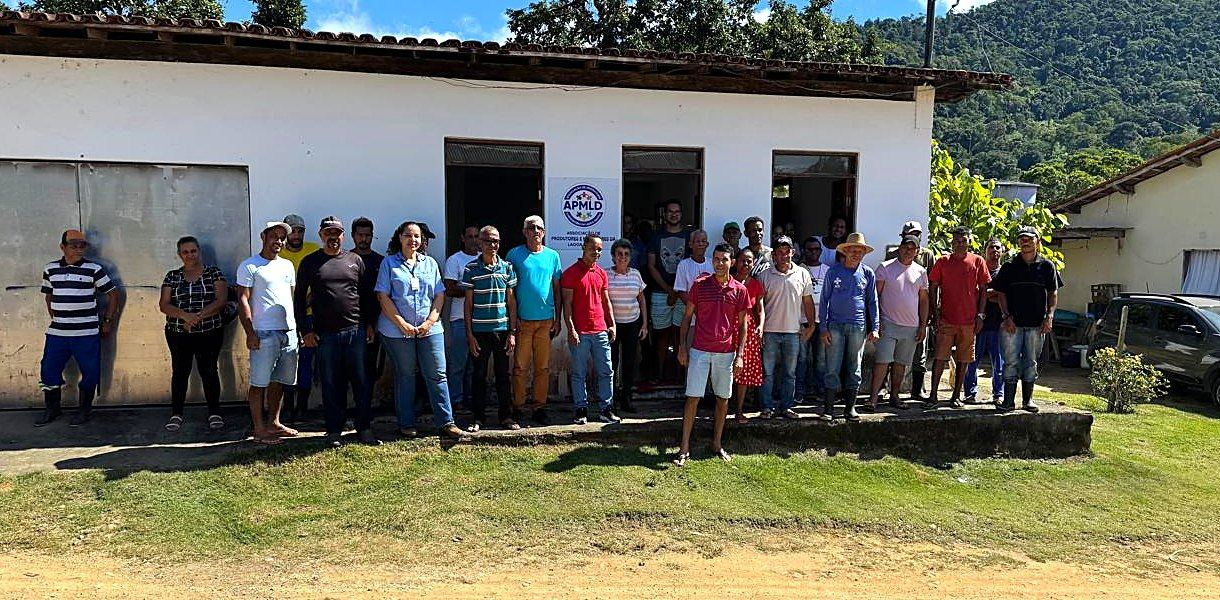
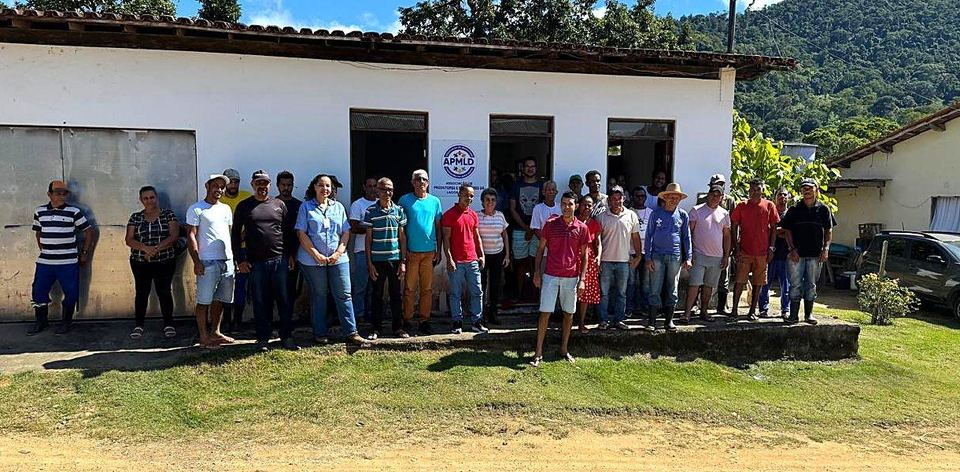
Remove fotos com rostos de associados
- Parceiros da Mata com faixa ilustrada
- Faça parte e galeria com fotos sem pessoas
- Foto do grupo em frente à placa mantida em resolução menor

Claude-Session: https://claude.ai/code/session_019GKXeM9cjGFhEfjHzmeRFF

diff --git a/index.html b/index.html
@@ -166,7 +166,7 @@ a{color:#2E6B34}a:hover{color:#1F4D24}
 
     <div class="prog-grid">
       <details class="prog">
-        <summary><img src="/img/tecnica.jpg" alt="Equipe técnica em reunião com moradores da Lagoa Dantas" style="width: 100%; height: 150px; object-fit: cover; object-position: center 40%; display: block">
+        <summary><div style="height: 150px; background: #2F6B4F; color: #FFFFFF; display: flex; align-items: center; gap: 18px; padding: 0 26px"><div style="flex: none; width: 96px; height: 96px; border-radius: 50%; background: rgba(255,255,255,0.16); display: flex; align-items: center; justify-content: center"><svg aria-hidden="true" width="56" height="56" viewBox="0 0 24 24" fill="none" stroke="currentColor" stroke-width="1.8" stroke-linecap="round" stroke-linejoin="round"><path d="M12 22c0-6 2-10 8-14-6 0-10 2-12 6"></path><path d="M12 22c0-5-2-8-7-10 4 0 6 1 7 3"></path></svg></div><div style="font-family: Archivo, sans-serif; font-weight: 800; font-size: 26px; line-height: 1.1">Mata Atlântica com renda e cuidado</div></div>
           <div class="prog-head">
             <span class="tag tag-est">Estadual · CAR/SDR</span>
             <h3>Parceiros da Mata</h3>
@@ -407,7 +407,7 @@ a{color:#2E6B34}a:hover{color:#1F4D24}
         <p style="margin: 0; font-size: 14px; color: #6B7A5E">Leva 1 minuto. Você pode enviar sua localização para a associação saber onde fica a sua roça.</p>
       </div>
       <div style="flex: 1 1 420px; min-width: 0; min-height: 320px; position: relative">
-        <img loading="lazy" src="/img/plateia.jpg" alt="Moradores da Lagoa Dantas reunidos em assembleia da associação" style="position: absolute; inset: 0; width: 100%; height: 100%; object-fit: cover; display: block">
+        <img loading="lazy" src="/img/arvore.jpg" alt="Árvore no pasto da Lagoa Dantas, com os morros ao fundo" style="position: absolute; inset: 0; width: 100%; height: 100%; object-fit: cover; display: block">
       </div>
     </div>
   </section>
@@ -430,8 +430,8 @@ a{color:#2E6B34}a:hover{color:#1F4D24}
     <h2 style="margin: 0 0 24px; font-family: Archivo, sans-serif; font-weight: 800; font-size: 32px">A Lagoa Dantas</h2>
     <div style="display: grid; grid-template-columns: repeat(auto-fit, minmax(260px, 1fr)); gap: 16px">
       <figure style="margin: 0; display: flex; flex-direction: column; gap: 8px"><img loading="lazy" src="/img/lagoa.jpg" alt="Vista do alto: casas, coqueiros e a estrada no vale da Lagoa Dantas" style="width: 100%; height: 240px; object-fit: cover; border-radius: 20px; display: block"><figcaption style="font-size: 14px; color: #4A5A3E">O vale da Lagoa Dantas</figcaption></figure>
-      <figure style="margin: 0; display: flex; flex-direction: column; gap: 8px"><img loading="lazy" src="/img/reuniao.jpg" alt="Representante fala aos moradores durante reunião" style="width: 100%; height: 240px; object-fit: cover; border-radius: 20px; display: block"><figcaption style="font-size: 14px; color: #4A5A3E">Reunião com os moradores</figcaption></figure>
-      <figure style="margin: 0; display: flex; flex-direction: column; gap: 8px"><img loading="lazy" src="/img/confraternizacao.jpg" alt="Associados posam juntos ao lado da mesa de bolos" style="width: 100%; height: 240px; object-fit: cover; border-radius: 20px; display: block"><figcaption style="font-size: 14px; color: #4A5A3E">Confraternização depois da assembleia</figcaption></figure>
+      <figure style="margin: 0; display: flex; flex-direction: column; gap: 8px"><img loading="lazy" src="/img/estrada.jpg" alt="Árvore à beira da estrada de terra na Lagoa Dantas" style="width: 100%; height: 240px; object-fit: cover; object-position: center 55%; border-radius: 20px; display: block"><figcaption style="font-size: 14px; color: #4A5A3E">A estrada da comunidade</figcaption></figure>
+      <figure style="margin: 0; display: flex; flex-direction: column; gap: 8px"><img loading="lazy" src="/img/trator-grade.jpg" alt="Trator vermelho e grade aradora chegando na Lagoa Dantas" style="width: 100%; height: 240px; object-fit: cover; border-radius: 20px; display: block"><figcaption style="font-size: 14px; color: #4A5A3E">A chegada do trator e da grade</figcaption></figure>
     </div>
   </section>
 
